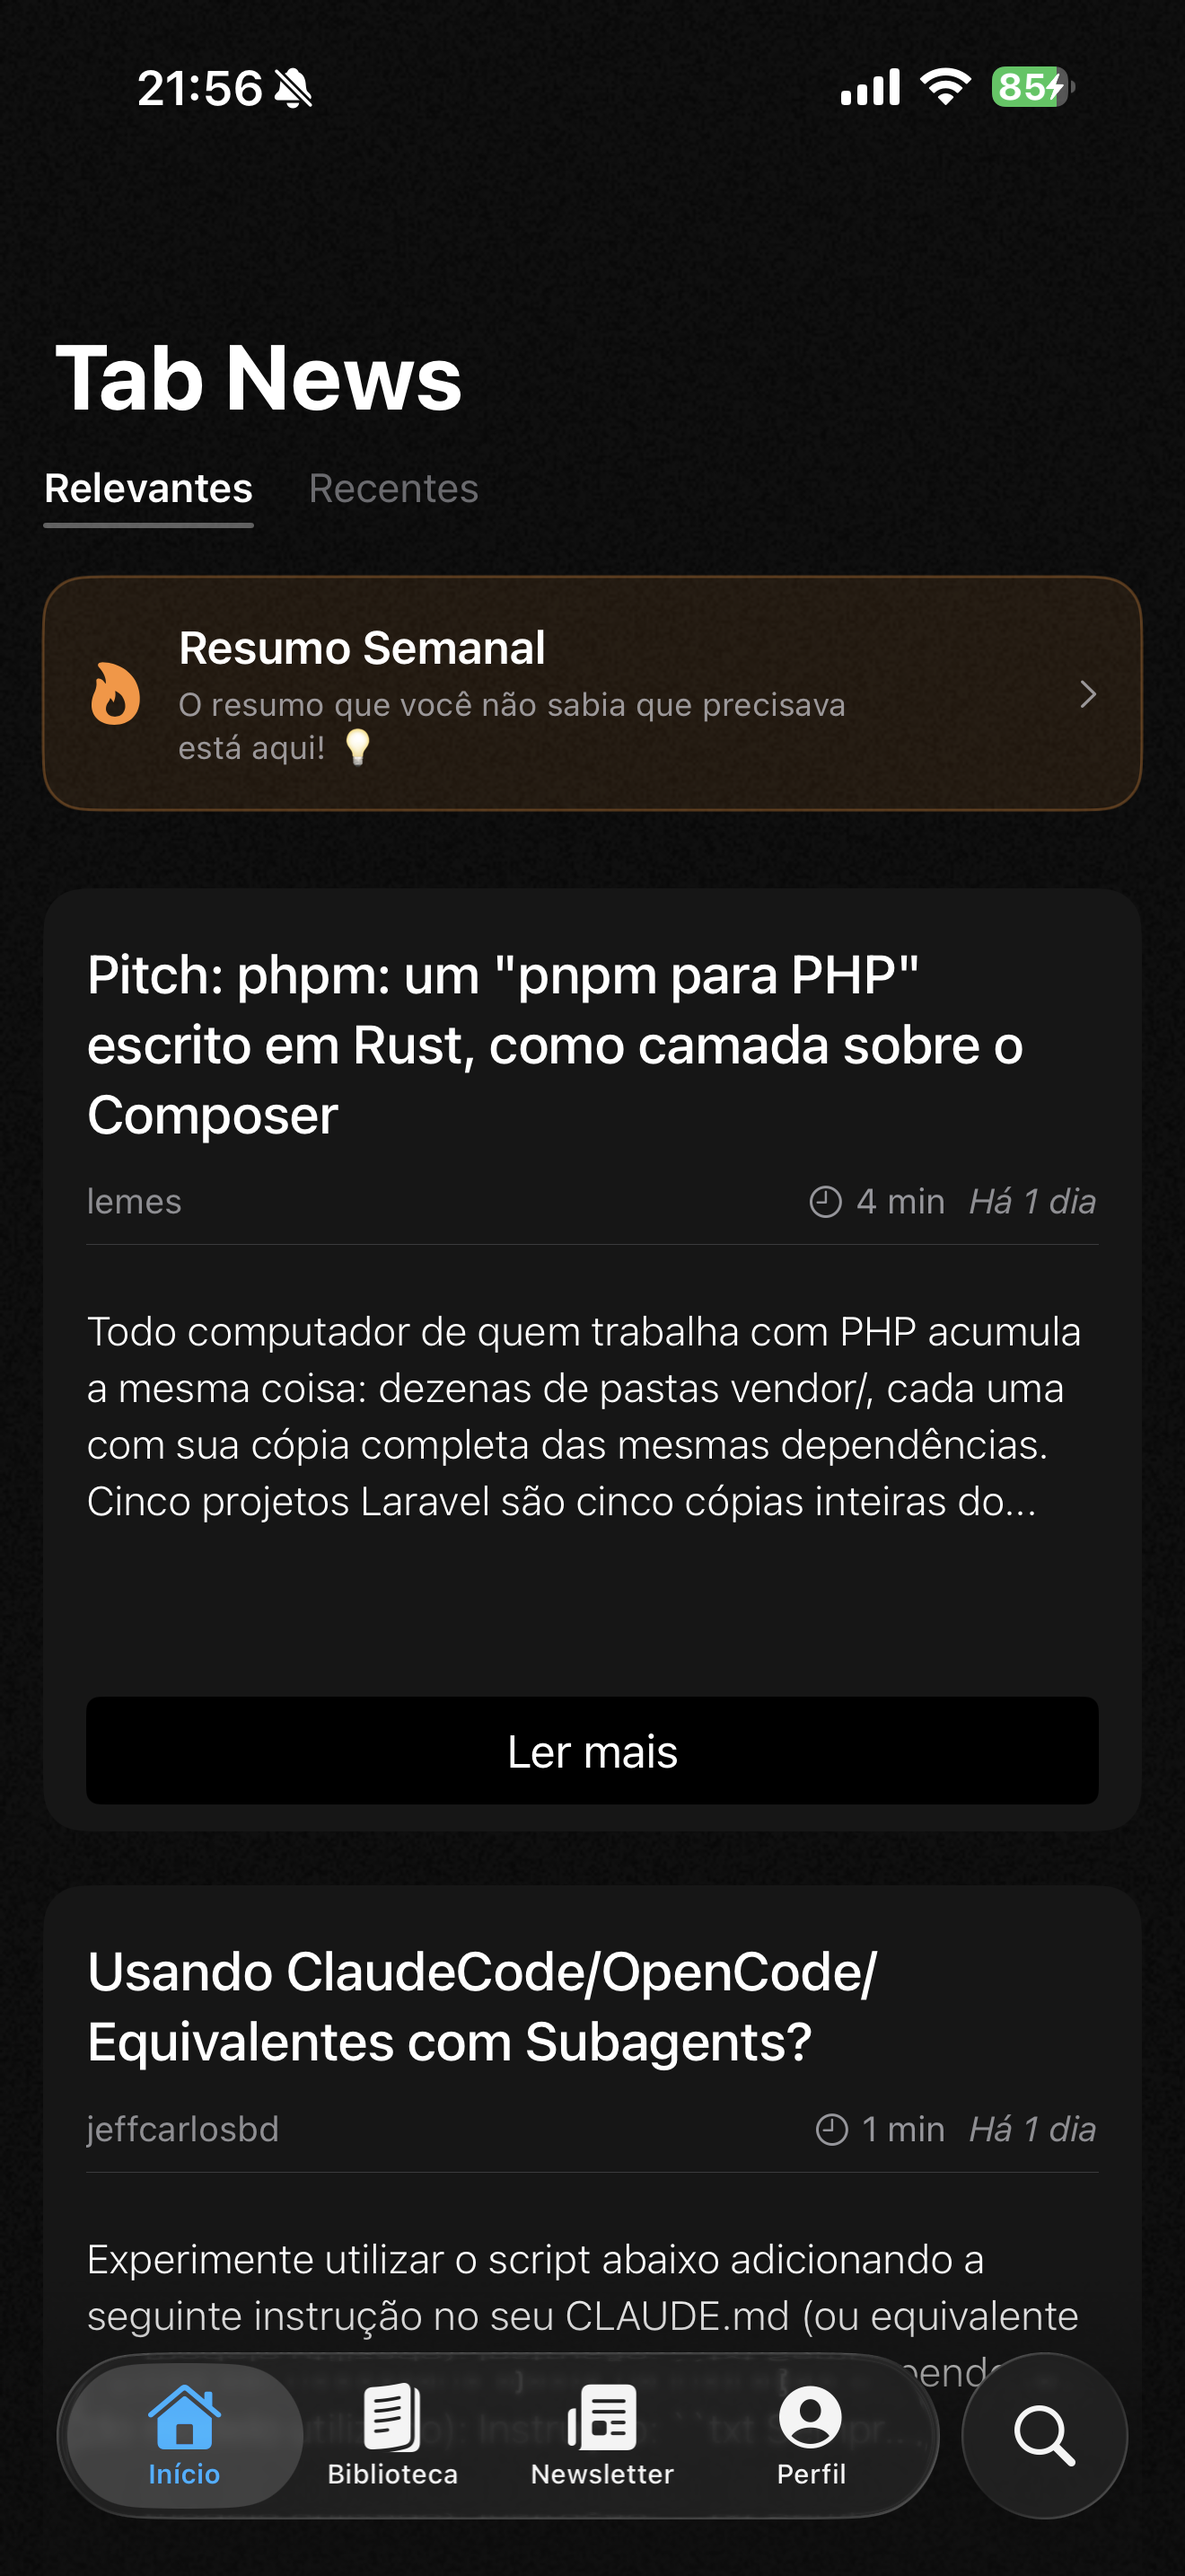
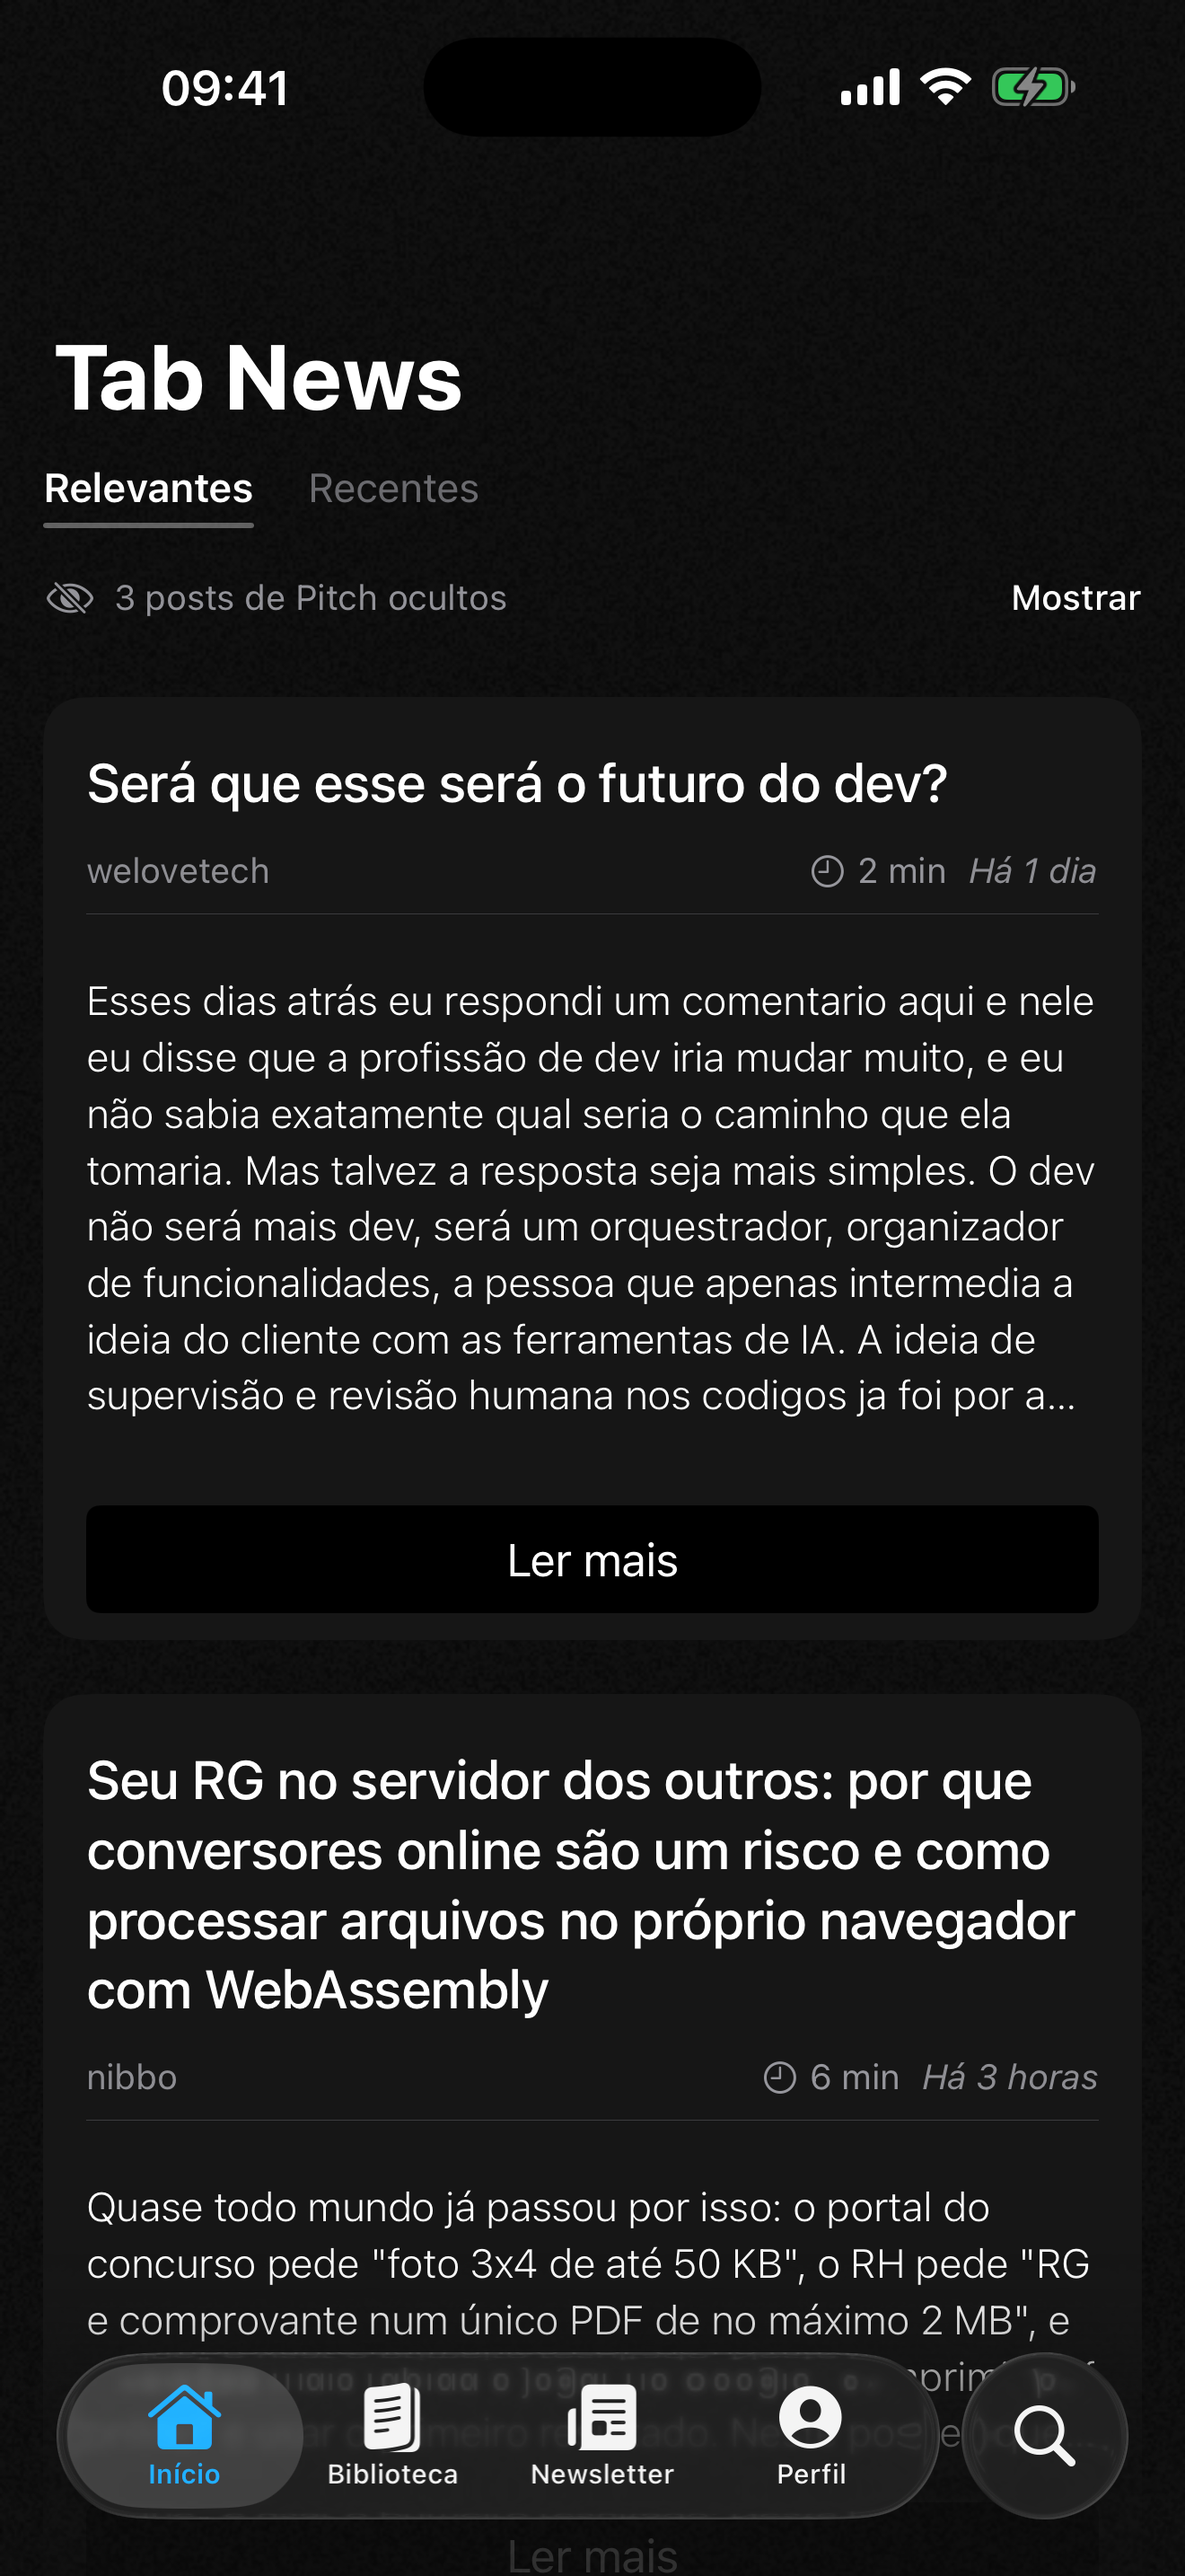
Regenerate App Store screenshots at 6.5" (1284x2778)
Template now scales to any window size; Home and Newsletter captures
retaken with the 4.5 UI.

diff --git a/screenshot/template/marketing.html b/screenshot/template/marketing.html
@@ -1,14 +1,16 @@
 <!doctype html>
-<!-- App Store marketing screenshot (iPhone 6.3", 1206x2622).
+<!-- App Store marketing screenshot. The layout is drawn at 1206x2622 (iPhone 6.3") and
+     scaled to fill the window width, so any size works (ex.: 1284x2778 for 6.5").
      Params: ?shot=home&lang=pt-BR  — rendered by screenshot/template/render.sh -->
 <html>
 <head>
 <meta charset="utf-8">
 <style>
   * { margin: 0; padding: 0; box-sizing: border-box; }
-  html, body { width: 1206px; height: 2622px; overflow: hidden; }
-  body {
-    background: #0d0d0d;
+  html, body { width: 100vw; height: 100vh; overflow: hidden; background: #0d0d0d; }
+  /* O script escala o canvas para a largura da janela */
+  .canvas {
+    width: 1206px; height: 2622px; transform-origin: 0 0;
     font-family: -apple-system, "SF Pro Display", "Helvetica Neue", sans-serif;
     color: #fff;
     position: relative;
@@ -54,6 +56,7 @@
 </style>
 </head>
 <body>
+<div class="canvas">
   <div class="grid"></div>
   <div class="glow"></div>
   <div class="copy">
@@ -62,6 +65,7 @@
     <h2 id="l2"></h2>
   </div>
   <div class="phone"><div class="screen"><img id="shot"><div class="island"></div></div></div>
+</div>
 <script>
   const copy = {
     home: { accent: "#3b82f6", glow: "rgba(59,130,246,.16)",
@@ -86,8 +90,10 @@
   const p = new URLSearchParams(location.search);
   const shot = p.get("shot") || "home", lang = p.get("lang") || "pt-BR";
   const c = copy[shot];
-  document.body.style.setProperty("--accent", c.accent);
-  document.body.style.setProperty("--glow", c.glow);
+  const canvas = document.querySelector(".canvas");
+  canvas.style.transform = `scale(${innerWidth / 1206})`;
+  canvas.style.setProperty("--accent", c.accent);
+  canvas.style.setProperty("--glow", c.glow);
   [eyebrow.textContent, l1.textContent, l2.textContent] = c[lang];
   // Shrink each line until it fits the copy width.
   for (const el of [l1, l2]) {
